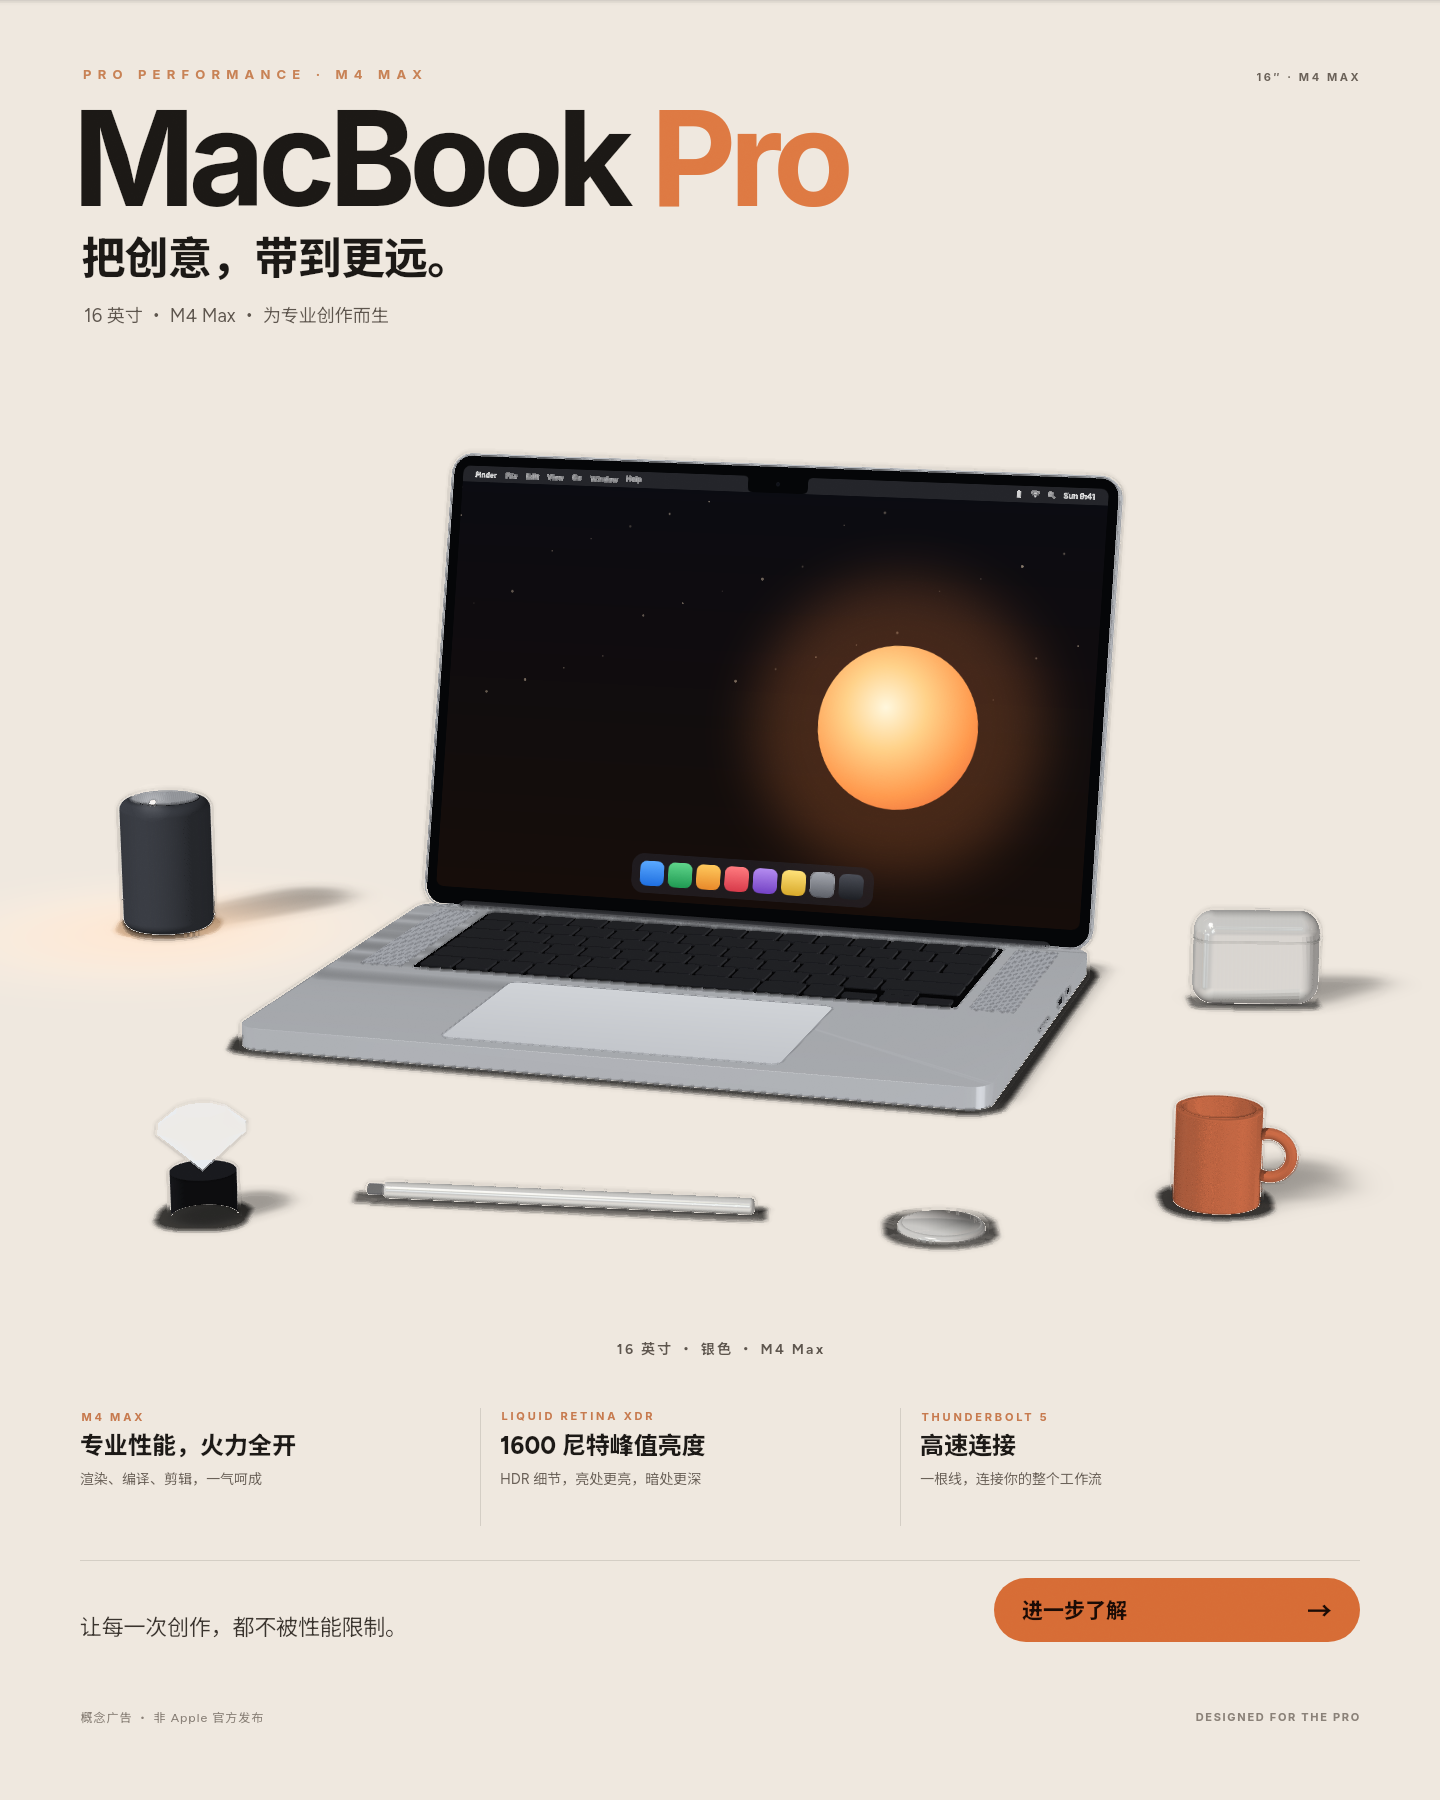
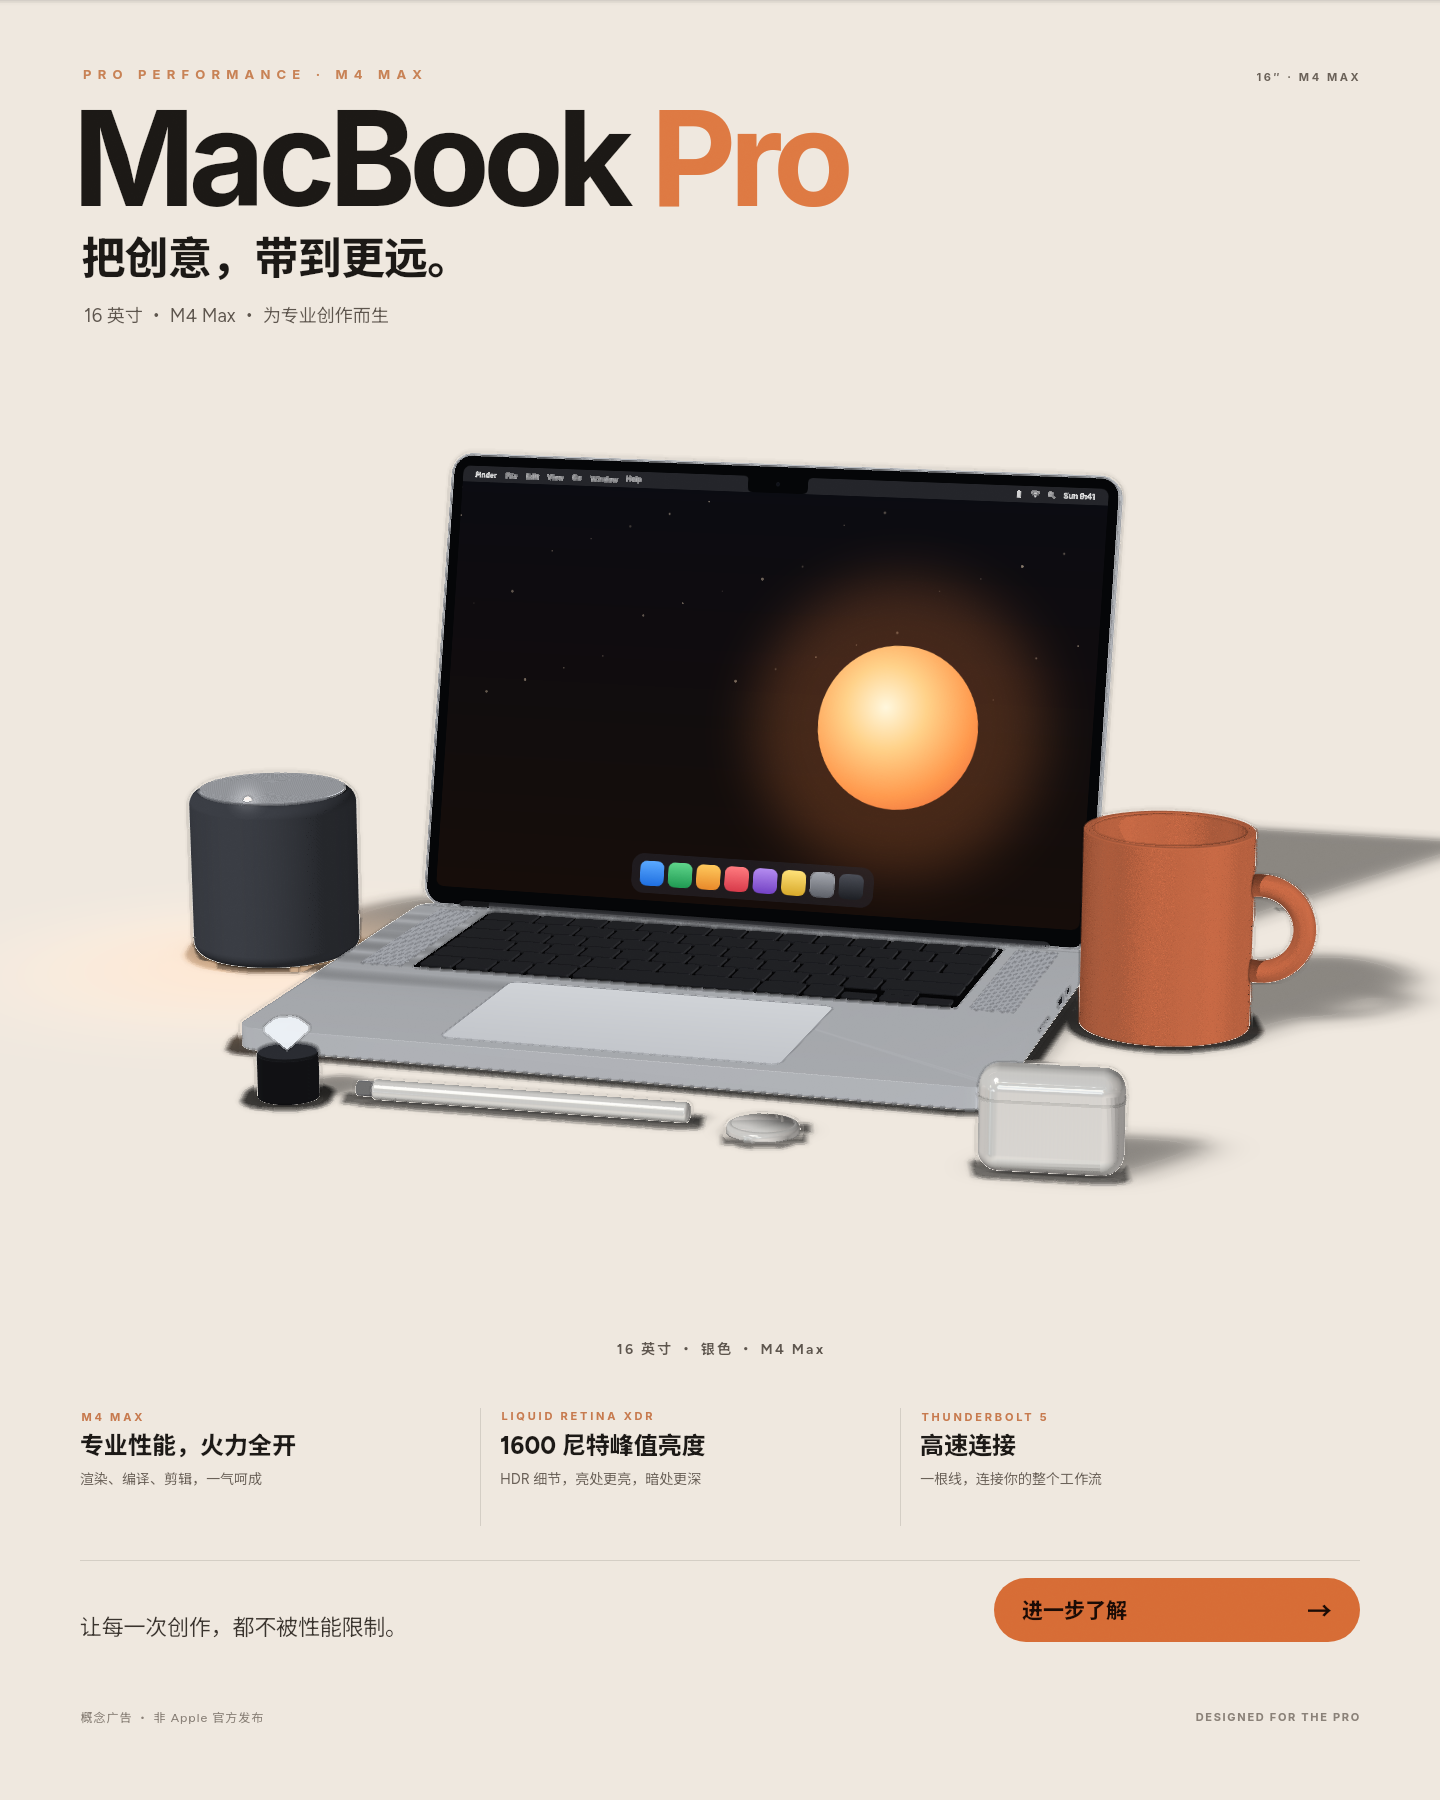
chore: adopt main compact MacBook desk scene for QUALITY-7 look
Bring PR #36 macbook-pro props (real-scale compact stage, lid/prop
shadows) plus the solid circle-depth cylinder winding fix so diamond
stand and speaker caps render filled under the tip soft-shadow work.

Changed region(s): [[0.5938, 0.4356, 1.0, 0.7156], [0.0625, 0.4044, 0.5625, 0.6844], [0.0938, 0.6222, 0.2188, 0.6844]]

diff --git a/examples/macbook-pro.tsx b/examples/macbook-pro.tsx
@@ -124,9 +124,9 @@ function Base() {
         <rect x={padX - 1.5} y={padY - 1.5} width={PAD.w + 3} height={PAD.h + 3} rx="13" fill="#8f9298" />
         <rect x={padX} y={padY} width={PAD.w} height={PAD.h} rx="12" fill="linear-gradient(180deg, #d0d3d7 0%, #c3c6cb 100%)" />
       </layer>
-      <path d={keyPath} fill={KEY} material="plastic" depth="4" z={TOP + 1.6} stroke="none" cast-shadow="false" />
+      <path d={keyPath} fill={KEY} material="plastic" depth="4" z={TOP + 1.6} stroke="none" />
       {/* 转轴：黑色的转轴盖，左右收在机身圆角里 */}
-      <rect x={CORNER + 24} y="-8" width={W - 2 * CORNER - 48} height="18" rx="9" fill="#2a2b2f" material="plastic" depth="18" z={TOP - 3} cast-shadow="false" />
+      <rect x={CORNER + 24} y="-8" width={W - 2 * CORNER - 48} height="18" rx="9" fill="#2a2b2f" material="plastic" depth="18" z={TOP - 3} />
       {/* 右侧接口：雷雳、HDMI、SDXC。层的 x 横跨机身厚度，y 沿进深 */}
       <layer x={W - T / 2} y="0" width={T} height={D} origin={`${T / 2} 0`} rotateY="90" z="0.3" cast-shadow="false">
         <rect x={T / 2 - 4} y="150" width="8" height="24" rx="4" fill="#1c1d20" />
@@ -206,8 +206,9 @@ function Wallpaper() {
 
 function Lid() {
   return (
-    <layer x={STAGE.x} y={STAGE.groundY - T + 4 - LID_H} width={W} height={LID_H} origin={`${W / 2} ${LID_H}`} rotateX={LID_TILT} cast-shadow="false">
-      <rect width={W} height={LID_H} rx={CORNER} round="z" fill={SILVER} material={SHELL} depth={LID_T} z={-LID_T / 2 - 1} stroke="none" cast-shadow="false" />
+    <layer x={STAGE.x} y={STAGE.groundY - T + 4 - LID_H} width={W} height={LID_H} origin={`${W / 2} ${LID_H}`} rotateX={LID_TILT}>
+      <rect width={W} height={LID_H} rx={CORNER} round="z" fill={SILVER} material={SHELL} depth={LID_T} z={-LID_T / 2 - 1} stroke="none" />
+      {/* 屏幕玻璃贴在盖内侧，不再单独投一圈影 */}
       <rect x={GLASS_INSET} y={GLASS_INSET} width={W - 2 * GLASS_INSET} height={LID_H - 2 * GLASS_INSET} rx={CORNER - GLASS_INSET} fill="#050608" cast-shadow="false" />
       <Wallpaper />
       <circle cx={W / 2} cy={SCREEN.y + 10} r="2.4" fill="#0e1018" stroke="#23262e" stroke-width="0.6" />
@@ -218,9 +219,11 @@ function Lid() {
 // 桌上的配件，各用一种 finish：布面音箱（matte）配拉丝顶盖（brushed）和指示灯
 // （lamp），陶瓷杯（clay），Apple Pencil（plastic 0.3），AirPods 盒（plastic 0.12），
 // AirTag（plastic 0.2），钻石（glass）立在黑色展台（matte）上。
-// 和机身同一块地。y 是进深，往镜头为正；z 是离地高度。尺寸按机身同一比例，约 2.64 px/mm。
+// 和机身同一块地。y 是进深，往镜头为正；z 是离地高度。尺寸按机身同一比例，约 2.64 px/mm：
+// HomePod mini Ø84×84、马克杯 Ø80×95、Pencil Ø8.9×166、AirTag Ø32×8、
+// AirPods Pro 盒 61×22×45。物件贴着机身四沿，不散开。
 // 每件只用两三个基本体，面数少，不拖慢渲染。
-const FLOOR = { w: 1440, h: 900 }
+const FLOOR = { w: 1440, h: 820 }
 
 // 空心杯：外圆减内圆，挤出成杯壁。
 function cupPath(cx: number, cy: number, r: number, wall: number) {
@@ -228,11 +231,16 @@ function cupPath(cx: number, cy: number, r: number, wall: number) {
   return `${ring(r)} ${ring(r - wall)}`
 }
 
-const SPEAKER = { cx: -40, cy: 120, r: 62, h: 180 }
-const MUG = { cx: 1530, cy: 900, r: 46, h: 104 }
-const PENCIL = { cx: 870, cy: 1121, r: 9, len: 400, turn: -8 }
-const POD = { x: 1380, y: 70, w: 160, d: 58, h: 120 }
-const GEM = { x: 510, y: 1242, r: 50, stand: 50 }
+// 机身占 floor 上 x∈[290,1230]、y∈[0,656]。左右高件贴后侧，前沿一条矮件，
+// 与机身侧向间隙约 24 px。
+const SPEAKER = { cx: 155, cy: 200, r: 111, h: 222 }
+const MUG = { cx: 1365, cy: 230, r: 106, h: 250 }
+// 前沿 y 约 800：再贴会叠进掌托 metrics 窗；AirPods 偏右，避开右掌托取样区。
+const PENCIL = { cx: 720, cy: 800, r: 12, len: 380, turn: -2 }
+const POD = { x: 1260, y: 820, w: 160, d: 57, h: 119 }
+const TAG = { cx: 1000, cy: 810, r: 42, h: 21 }
+// 展台比钻石腰棱宽一点，柱身才露得出实心侧面。
+const GEM = { x: 430, y: 820, r: 28, stand: 52, standR: 36 }
 
 // 明亮式切工：八面冠部压在八面亭部上，台面朝上，尖朝下。单位半径 1。
 const diamond = (() => {
@@ -252,33 +260,35 @@ const diamond = (() => {
 })()
 
 function Props() {
+  const mugHandle = { r: 55, tube: 14 }
   return (
     <layer x="0" y={STAGE.groundY} width={FLOOR.w} height={FLOOR.h} origin={`${FLOOR.w / 2} 0`} rotateX="90" preserve-3d>
-      {/* 左后：圆柱蓝牙音箱。布面机身上下倒圆，拉丝铝顶盖，顶上一颗暖色指示灯 */}
+      {/* 左后：HomePod mini 比例圆柱音箱。布面机身，拉丝铝顶盖，顶边一颗暖色指示灯 */}
       <layer x={SPEAKER.cx} y={SPEAKER.cy} width="0" height="0" z={SPEAKER.h / 2} preserve-3d>
-        <cylinder cx="0" cy="0" r={SPEAKER.r} height={SPEAKER.h} rx="14" rotateX="90" fill="#3b3e45" material="matte" />
+        <cylinder cx="0" cy="0" r={SPEAKER.r} height={SPEAKER.h} rx="18" rotateX="90" fill="#3b3e45" material="matte" />
       </layer>
-      <circle cx={SPEAKER.cx} cy={SPEAKER.cy} r={SPEAKER.r - 16} depth="2" z={SPEAKER.h + 1} fill="#b9bcc2" material="brushed" />
-      <sphere cx={SPEAKER.cx} cy={SPEAKER.cy + SPEAKER.r - 24} r="4" z={SPEAKER.h + 2} fill="#ff9a52" material="lamp" />
-      {/* 右前：陶瓷马克杯，杯把朝外，是竖起来的圆环，一半埋在杯壁里 */}
-      <path d={cupPath(MUG.cx, MUG.cy, MUG.r, 6)} fill-rule="evenodd" depth={MUG.h} z={MUG.h / 2} fill="#c96a45" material="clay" stroke="none" />
+      <circle cx={SPEAKER.cx} cy={SPEAKER.cy} r={SPEAKER.r - 14} depth="2" z={SPEAKER.h + 1} fill="#b9bcc2" material="brushed" />
+      <sphere cx={SPEAKER.cx} cy={SPEAKER.cy + SPEAKER.r - 28} r="5" z={SPEAKER.h + 2} fill="#ff9a52" material="lamp" />
+      {/* 右后：陶瓷马克杯与音箱对侧同进深，杯把朝外（右） */}
+      <path d={cupPath(MUG.cx, MUG.cy, MUG.r, 8)} fill-rule="evenodd" depth={MUG.h} z={MUG.h / 2} fill="#c96a45" material="clay" stroke="none" />
       {/* 同一个元素上 rotateX 会吞掉 z，所以抬高写在外层 */}
-      <layer x={MUG.cx + MUG.r + 8} y={MUG.cy} width="0" height="0" z={MUG.h / 2 + 4} preserve-3d>
-        <torus cx="0" cy="0" r="24" tube="6" rotateX="90" fill="#c96a45" material="clay" />
+      <layer x={MUG.cx + MUG.r + 10} y={MUG.cy} width="0" height="0" z={MUG.h / 2 + 6} preserve-3d>
+        <torus cx="0" cy="0" r={mugHandle.r} tube={mugHandle.tube} rotateX="90" fill="#c96a45" material="clay" />
       </layer>
-      {/* 正前：Apple Pencil 斜躺在机身前面，笔尖一小段灰色 */}
+      {/* 正前：Apple Pencil 贴机身前沿，笔尖一小段灰色 */}
       <layer x={PENCIL.cx} y={PENCIL.cy} width="0" height="0" rotate={PENCIL.turn} preserve-3d>
         <cylinder cx="0" cy="0" r={PENCIL.r} height={PENCIL.len} rx="4" z={PENCIL.r} fill="#f4f3ef" material="plastic 0.3" rotate="90" />
-        <cylinder cx={-PENCIL.len / 2 - 9} cy="0" r={PENCIL.r - 3} height="18" z={PENCIL.r} fill="#8e9096" material="plastic 0.5" rotate="90" />
+        <cylinder cx={-PENCIL.len / 2 - 10} cy="0" r={PENCIL.r - 3} height="20" z={PENCIL.r} fill="#8e9096" material="plastic 0.5" rotate="90" />
       </layer>
-      {/* 右前，笔尖旁：AirTag 白面朝上，圆口倒圆。挤出的薄圆片顶面会读成黑片，所以用带 rx 的圆柱 */}
-      <cylinder cx="1267" cy="1075" r="46" height="13" rx="5" z="6" rotateX="90" fill="#f4f3ef" material="plastic 0.2" />
-      {/* 右后：竖放的 AirPods 盒，四面大圆角，盖缝一道浅灰 */}
-      <rect x={POD.x} y={POD.y} width={POD.w} height={POD.d} depth={POD.h} rx="26" z={POD.h / 2} fill="#f4f3ef" material="plastic 0.12" rotate="-14" />
-      <rect x={POD.x - 0.6} y={POD.y - 0.6} width={POD.w + 1.2} height={POD.d + 1.2} depth="1.4" rx="26" round="z" z={POD.h * 0.72} fill="#c9c9c4" material="plastic 0.3" rotate="-14" cast-shadow="false" />
-      {/* 左前：钻石尖朝下立在黑色绒面展台上，深色底衬出玻璃 */}
-      <circle cx={GEM.x} cy={GEM.y} r={GEM.r * 0.7} depth={GEM.stand} z={GEM.stand / 2} fill="#202126" material="matte" />
-      <model object={diamond} unit={GEM.r} x={GEM.x} y={GEM.y} z={GEM.stand + GEM.r * 0.95} material="glass 0.06" />
+      {/* 前沿：AirTag 白面朝上。挤出的薄圆片顶面会读成黑片，所以用带 rx 的圆柱 */}
+      <cylinder cx={TAG.cx} cy={TAG.cy} r={TAG.r} height={TAG.h} rx="6" z={TAG.h / 2} rotateX="90" fill="#f4f3ef" material="plastic 0.2" />
+      {/* 右前：竖放的 AirPods Pro 盒，偏右避开掌托取样区 */}
+      <rect x={POD.x} y={POD.y} width={POD.w} height={POD.d} depth={POD.h} rx="24" z={POD.h / 2} fill="#f4f3ef" material="plastic 0.12" rotate="-6" />
+      <rect x={POD.x - 0.6} y={POD.y - 0.6} width={POD.w + 1.2} height={POD.d + 1.2} depth="1.4" rx="24" round="z" z={POD.h * 0.72} fill="#c9c9c4" material="plastic 0.3" rotate="-6" />
+      {/* 左前：钻石尖朝下立在黑色绒面展台上。circle depth 即实心 Z 轴圆柱；顶盖略亮，钻石抬高，避免玻璃嵌顶。 */}
+      <circle cx={GEM.x} cy={GEM.y} r={GEM.standR} depth={GEM.stand} z={GEM.stand / 2} fill="#2a2c32" material="matte" />
+      <circle cx={GEM.x} cy={GEM.y} r={GEM.standR - 1} depth="3" z={GEM.stand + 1.5} fill="#35383f" material="matte" />
+      <model object={diamond} unit={GEM.r} x={GEM.x} y={GEM.y} z={GEM.stand + 4 + GEM.r * 0.95} material="glass 0.06" />
     </layer>
   )
 }
@@ -290,7 +300,7 @@ export default (
       <Lid />
       <Base />
       <Props />
-      <ground y={STAGE.groundY} rotateX="90" fill="#efe8df" shadow-blur="36" shadow-opacity="0.34" />
+      <ground y={STAGE.groundY} rotateX="90" fill="#efe8df" shadow-blur="42" shadow-opacity="0.42" />
     </layer>
     <layer x="80" y="66">
       <p style="font-family:Inter; font-size:13px; font-weight:700; letter-spacing:6.2px; color:#c88255">PRO PERFORMANCE · M4 MAX</p>

diff --git a/src/mesh.spec.ts b/src/mesh.spec.ts
@@ -9,8 +9,10 @@ import { parseGlb, solidBoxGlb } from './glb.js'
 import { BOX_EDGES, roundedBoxGeometry } from './mesh-round.js'
 import { bevelFewFaces, bevelRadius } from './mesh-bevel.js'
 import { MATCAP_DEFAULTS, MATCAP_NAMES } from './matcaps.js'
+import { buildCylinderMesh } from './rasterize-native.js'
 import { checkLayer, renderLayer } from './render.js'
 import { tessellateSvgPath } from './path.js'
+import { outwardAxisZCylinderSides } from './software-mesh.js'
 import { boxBottom, boxRight } from './types.js'
 
 const dir = mkdtempSync(join(tmpdir(), 'flexlayer-mesh-'))
@@ -1159,6 +1161,59 @@ describe('网格绘制', () => {
     expect(capInset).toBeGreaterThan(8)
     expect(sideInset).toBeGreaterThan(8)
   })
+
+  it('circle depth（Z 轴圆柱）侧面法线朝外，落地是实心柱而不是空壳', async () => {
+    const raw = buildCylinderMesh(true, 48, 60, 0, [], 0, 0)
+    expect(raw).toBeTruthy()
+    const mesh = {
+      positions: new Float32Array(raw!.positions),
+      normals: new Float32Array(raw!.normals),
+      indices: new Uint32Array(raw!.indices),
+    }
+    outwardAxisZCylinderSides(mesh)
+    let outward = 0
+    let inward = 0
+    const { positions: p, indices: idx } = mesh
+    for (let t = 0; t < idx.length; t += 3) {
+      const ia = idx[t]! * 3
+      const ib = idx[t + 1]! * 3
+      const ic = idx[t + 2]! * 3
+      const ax = p[ia]!, ay = p[ia + 1]!, az = p[ia + 2]!
+      const bx = p[ib]!, by = p[ib + 1]!, bz = p[ib + 2]!
+      const cx = p[ic]!, cy = p[ic + 1]!, cz = p[ic + 2]!
+      const ux = bx - ax, uy = by - ay, uz = bz - az
+      const vx = cx - ax, vy = cy - ay, vz = cz - az
+      const nx = uy * vz - uz * vy
+      const ny = uz * vx - ux * vz
+      const nz = ux * vy - uy * vx
+      const len = Math.hypot(nx, ny, nz) || 1
+      if (Math.abs(nz / len) > 0.55) continue
+      const mx = (ax + bx + cx) / 3
+      const my = (ay + by + cy) / 3
+      const radial = Math.hypot(mx, my) || 1
+      const dot = (nx / len) * (mx / radial) + (ny / len) * (my / radial)
+      if (dot > 0.3) outward++
+      else if (dot < -0.3) inward++
+    }
+    expect(outward).toBeGreaterThan(100)
+    expect(inward).toBe(0)
+
+    // Mid-height side of a grounded circle depth should be the fill, not the floor.
+    const { png } = await renderLayer(`
+      <layer width="480" height="320" background="#efe8df" camera="fov 26, orbit 14 24, distance 780, at 240 230 0">
+        <ground y="240" rotateX="90" fill="#efe8df" shadow-blur="20" />
+        <layer x="0" y="240" width="480" height="220" origin="240 0" rotateX="90" preserve-3d>
+          <circle cx="240" cy="110" r="56" depth="72" z="36" fill="#202126" material="matte" />
+        </layer>
+      </layer>
+    `)
+    const body = await pixelAt(png, 240, 186)
+    // Solid charcoal body — not the beige floor showing through a hollow shell.
+    expect(body[0]).toBeLessThan(80)
+    expect(body[1]).toBeLessThan(85)
+    expect(body[2]).toBeLessThan(95)
+    expect((body[0]! + body[1]! + body[2]!) / 3).toBeLessThan(90)
+  }, 30000)
 
   it('五星和细挤出按厚度的 1/40 收棱，尖角往里让', () => {
     const prism = (depth: number) => {

diff --git a/src/software-mesh.ts b/src/software-mesh.ts
@@ -329,7 +329,54 @@ function buildBox(node: MeshLayoutNode) {
 function buildCylinder(node: MeshLayoutNode) {
   if (node.mesh.type !== 'cylinder') return null
   const { tx, ty } = place(node)
-  return buildCylinderMesh(node.mesh.axis === 'z', node.mesh.r, node.mesh.height, node.mesh.rx, node.mesh.rims, tx, ty)
+  const mesh = buildCylinderMesh(node.mesh.axis === 'z', node.mesh.r, node.mesh.height, node.mesh.rx, node.mesh.rims, tx, ty)
+  // Native axis-Z cylinders (`<circle depth>`) wind side walls inward, so
+  // back-face culling drops the shell and the body reads as a hollow cup.
+  // Caps already face outward — only flip radial sides.
+  if (mesh && node.mesh.axis === 'z') outwardAxisZCylinderSides(mesh)
+  return mesh
+}
+
+/** Flip inward side windings / normals on a Z-up cylinder. Caps stay as-is. */
+export function outwardAxisZCylinderSides(mesh: {
+  positions: Float32Array
+  normals: Float32Array
+  indices: Uint32Array
+}): void {
+  const { positions: p, normals: n, indices: idx } = mesh
+  const flippedVert = new Uint8Array(p.length / 3)
+  for (let t = 0; t < idx.length; t += 3) {
+    const ia = idx[t]!
+    const ib = idx[t + 1]!
+    const ic = idx[t + 2]!
+    const ax = p[ia * 3]!, ay = p[ia * 3 + 1]!, az = p[ia * 3 + 2]!
+    const bx = p[ib * 3]!, by = p[ib * 3 + 1]!, bz = p[ib * 3 + 2]!
+    const cx = p[ic * 3]!, cy = p[ic * 3 + 1]!, cz = p[ic * 3 + 2]!
+    const ux = bx - ax, uy = by - ay, uz = bz - az
+    const vx = cx - ax, vy = cy - ay, vz = cz - az
+    const nx = uy * vz - uz * vy
+    const ny = uz * vx - ux * vz
+    const nz = ux * vy - uy * vx
+    const len = Math.hypot(nx, ny, nz) || 1
+    // Caps face ±Z; leave them. Side walls are radial in XY.
+    if (Math.abs(nz / len) > 0.55) continue
+    const mx = (ax + bx + cx) / 3
+    const my = (ay + by + cy) / 3
+    const radial = Math.hypot(mx, my) || 1
+    const outward = (nx / len) * (mx / radial) + (ny / len) * (my / radial)
+    if (outward >= 0) continue
+    idx[t + 1] = ic
+    idx[t + 2] = ib
+    flippedVert[ia] = 1
+    flippedVert[ib] = 1
+    flippedVert[ic] = 1
+  }
+  for (let i = 0; i < flippedVert.length; i++) {
+    if (!flippedVert[i]) continue
+    // Side verts: negate the radial normal. Keep a tiny ±Z fillet component.
+    n[i * 3] = -n[i * 3]!
+    n[i * 3 + 1] = -n[i * 3 + 1]!
+  }
 }
 
 function buildTorus(node: MeshLayoutNode) {
